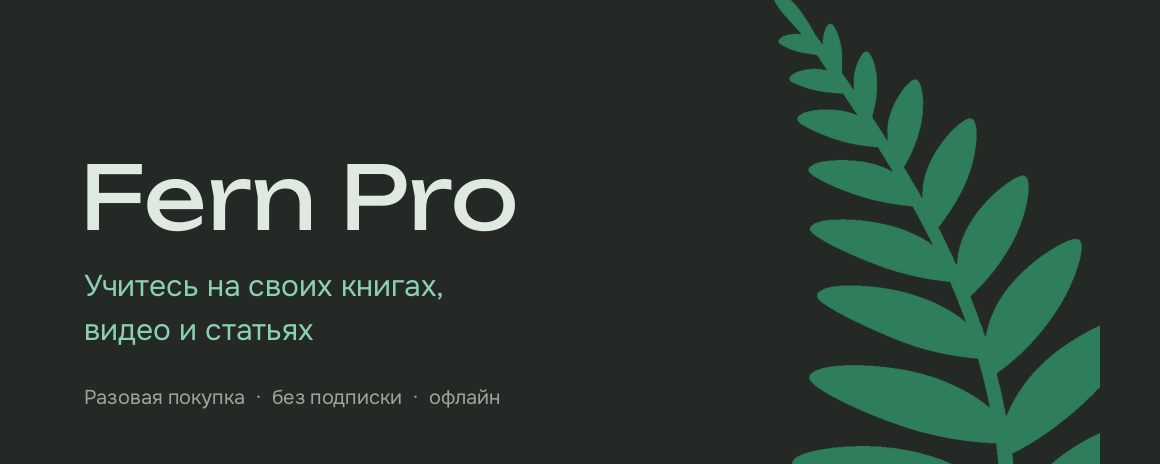
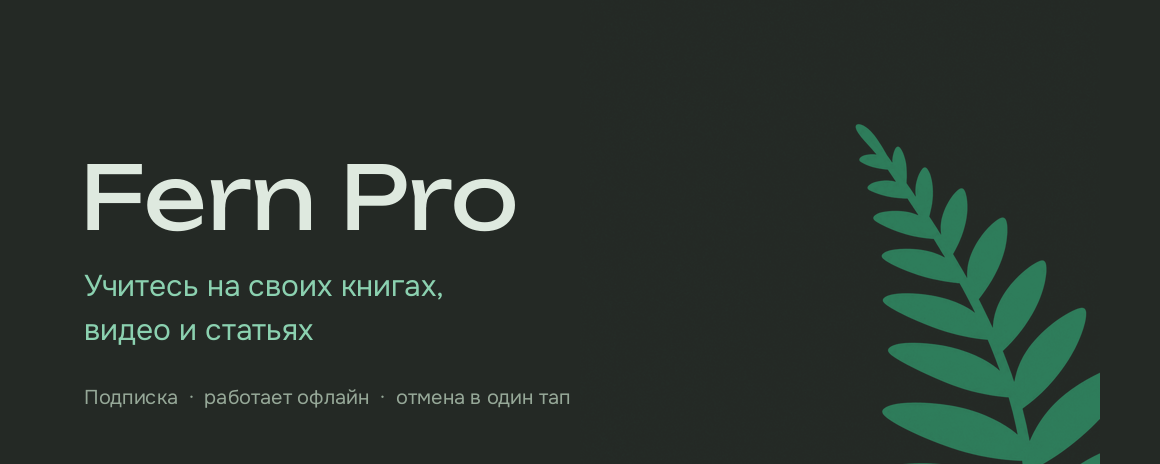
Обложка товара больше не обещает разовую покупку
Подпись стала «Подписка · работает офлайн · отмена в один тап». Заодно чинится
сам генератор: слой иконки давно несёт прозрачность, и прежняя эвристика «что
зеленее фона» выбивала весь холст — вместо папоротника на обложке был сплошной
прямоугольник. Маска берётся из альфы.

Claude-Session: https://claude.ai/code/session_01UUHo3Ny9S31Bj5etb98Wd9

Changed region(s): [[0.6517, 0.0, 0.9621, 1.0], [0.0621, 0.8448, 0.4966, 0.875]]

diff --git a/docs/branding/covers/gen_cover.py b/docs/branding/covers/gen_cover.py
@@ -4,7 +4,9 @@ from PIL import Image, ImageDraw, ImageFont
 import os
 
 APP = '/home/alelx/Projects/GitHub/Fern/app'
-OUT = '/tmp/claude-1000/-home-alelx/36f209b5-d79c-41cc-b395-dbb4f2acdc8f/scratchpad/covers'
+# Готовые обложки кладутся рядом со скриптом: их выбирают глазами и грузят в
+# кабинет lava.top руками — API картинки товара не принимает.
+OUT = os.path.dirname(os.path.abspath(__file__))
 os.makedirs(OUT, exist_ok=True)
 
 W, H = 1160, 464
@@ -18,16 +20,26 @@ ONEST = f'{APP}/assets/fonts/Onest.ttf'
 
 
 def leaf(size, colour, alpha=255):
-    """Лист папоротника из иконки: выбиваем тёмный фон по «зелёности»."""
-    src = Image.open(f'{APP}/assets/icon/foreground.png').convert('RGB')
-    px = src.load()
-    mask = Image.new('L', src.size, 0)
-    mp = mask.load()
-    for y in range(src.size[1]):
-        for x in range(src.size[0]):
-            r, g, b = px[x, y]
-            # Лист заметно зеленее фона — этого хватает как признака.
-            mp[x, y] = 255 if (g - r) > 18 and g > 60 else 0
+    """Силуэт папоротника из слоя иконки.
+
+    Слой переднего плана несёт прозрачность (её завели, когда чинили
+    адаптивную иконку), и маска берётся прямо из альфы. Прежняя эвристика
+    «что зеленее фона» на таком файле выбивала весь холст, и вместо листа на
+    обложке оказывался сплошной прямоугольник.
+    """
+    src = Image.open(f'{APP}/assets/icon/foreground.png')
+    if src.mode in ('RGBA', 'LA'):
+        mask = src.convert('RGBA').getchannel('A')
+    else:
+        rgb = src.convert('RGB')
+        px = rgb.load()
+        mask = Image.new('L', rgb.size, 0)
+        mp = mask.load()
+        for y in range(rgb.size[1]):
+            for x in range(rgb.size[0]):
+                r, g, b = px[x, y]
+                # Лист заметно зеленее фона — этого хватает как признака.
+                mp[x, y] = 255 if (g - r) > 18 and g > 60 else 0
     box = mask.getbbox()          # обрезаем по самому растению
     mask = mask.crop(box)
     # Держим пропорции листа: size задаёт ВЫСОТУ.
@@ -54,7 +66,7 @@ def variant_readme():
     text(d, (80, 230), 'Fern Pro', ImageFont.truetype(UNB, 88), LIGHT)
     text(d, (84, 296), 'Учитесь на своих книгах,', ImageFont.truetype(ONEST, 30), MINT)
     text(d, (84, 340), 'видео и статьях', ImageFont.truetype(ONEST, 30), MINT)
-    text(d, (84, 404), 'Разовая покупка  ·  без подписки  ·  офлайн',
+    text(d, (84, 404), 'Подписка  ·  работает офлайн  ·  отмена в один тап',
          ImageFont.truetype(ONEST, 20), (150, 168, 152))
     img.save(f'{OUT}/1-readme.png')
 
@@ -68,7 +80,7 @@ def variant_green():
     text(d, (80, 222), 'Fern Pro', ImageFont.truetype(UNB, 92), (240, 250, 242))
     text(d, (84, 288), 'Учитесь на своих книгах,', ImageFont.truetype(ONEST, 31), (208, 236, 219))
     text(d, (84, 334), 'видео и статьях', ImageFont.truetype(ONEST, 31), (208, 236, 219))
-    text(d, (84, 400), 'Разовая покупка  ·  без подписки  ·  офлайн',
+    text(d, (84, 400), 'Подписка  ·  работает офлайн  ·  отмена в один тап',
          ImageFont.truetype(ONEST, 20), (198, 230, 210))
     img.save(f'{OUT}/2-green.png')
 
@@ -82,7 +94,7 @@ def variant_split():
     text(d, (W - 80, 214), 'Fern Pro', ImageFont.truetype(UNB, 84), LIGHT, anchor='rs')
     text(d, (W - 82, 276), 'Учитесь на своих книгах,', ImageFont.truetype(ONEST, 29), MINT, anchor='rs')
     text(d, (W - 82, 318), 'видео и статьях', ImageFont.truetype(ONEST, 29), MINT, anchor='rs')
-    text(d, (W - 82, 388), 'Разовая покупка  ·  без подписки  ·  офлайн',
+    text(d, (W - 82, 388), 'Подписка  ·  работает офлайн  ·  отмена в один тап',
          ImageFont.truetype(ONEST, 19), (150, 168, 152), anchor='rs')
     img.save(f'{OUT}/3-split.png')
 
